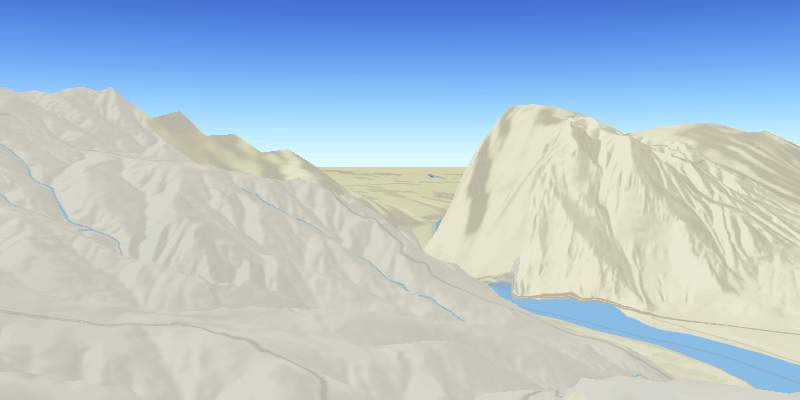
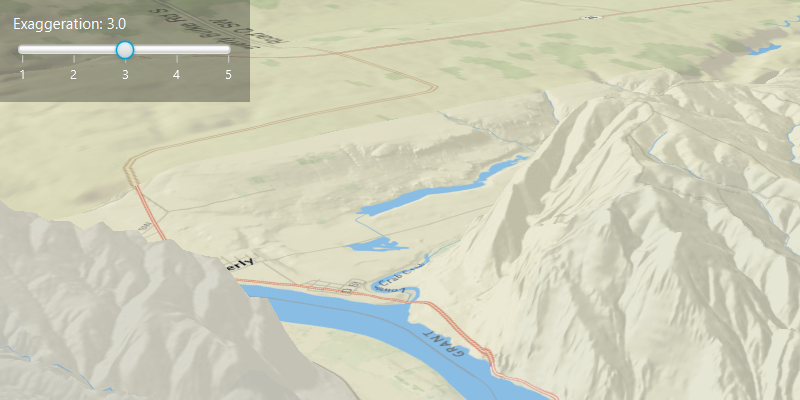
Terrain exaggeration - make slider smooth and add label (#502)

diff --git a/scene/terrain-exaggeration/src/main/java/com/esri/samples/terrain_exaggeration/TerrainExaggerationController.java b/scene/terrain-exaggeration/src/main/java/com/esri/samples/terrain_exaggeration/TerrainExaggerationController.java
@@ -17,6 +17,7 @@
 package com.esri.samples.terrain_exaggeration;
 
 import javafx.fxml.FXML;
+import javafx.scene.control.Label;
 import javafx.scene.control.Slider;
 
 import com.esri.arcgisruntime.geometry.Point;
@@ -29,6 +30,7 @@ import com.esri.arcgisruntime.mapping.view.SceneView;
 
 public class TerrainExaggerationController {
 
+  @FXML private Label exaggerationLabel;
   @FXML private SceneView sceneView;
   @FXML private Slider exaggerationSlider;
   private Surface surface;
@@ -67,6 +69,7 @@ public class TerrainExaggerationController {
    */
   @FXML
   private void changeElevationExaggeration() {
+    exaggerationLabel.setText("Exaggeration: " + (double) Math.round(exaggerationSlider.getValue() * 100d) / 100d);
     surface.setElevationExaggeration((float) exaggerationSlider.getValue());
   }
 
